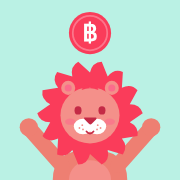
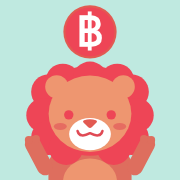
โลโก้: วาดใหม่ให้ใกล้เคียงรูปต้นฉบับ (แผงคอก้อนเมฆ หน้า หู มือชู เหรียญ ฿)
Claude-Session: https://claude.ai/code/session_01S3PVuPWeF5HadkVucRc6zr

diff --git a/index.html b/index.html
@@ -8,9 +8,9 @@
 <meta name="apple-mobile-web-app-title" content="Cashflow">
 <meta name="mobile-web-app-capable" content="yes">
 <meta name="apple-mobile-web-app-status-bar-style" content="default">
-<link rel="apple-touch-icon" href="apple-touch-icon.png?v=4">
-<link rel="icon" type="image/png" sizes="32x32" href="favicon.png?v=4">
-<link rel="manifest" href="manifest.json?v=4">
+<link rel="apple-touch-icon" href="apple-touch-icon.png?v=5">
+<link rel="icon" type="image/png" sizes="32x32" href="favicon.png?v=5">
+<link rel="manifest" href="manifest.json?v=5">
 <title>Cashflow</title>
 <link rel="preconnect" href="https://fonts.googleapis.com">
 <link href="https://fonts.googleapis.com/css2?family=Sarabun:wght@400;600;700;800&display=swap" rel="stylesheet">
@@ -166,7 +166,7 @@ label.f{display:block;font-size:12.5px;color:var(--mute);font-weight:600;margin:
 // anon key เปิดเผยได้โดยออกแบบ — ตัวป้องกันจริงคือ RLS (owner = auth.uid()) + ต้อง login
 const CF_SUPABASE_URL = 'https://xgpsdcnqravhouwaktgp.supabase.co';
 const CF_SUPABASE_ANON = 'sb_publishable_HGOrB_SgTUq22r67me1B5Q_KYhNoL7B';   // publishable key (Fillbook)
-const CF_VERSION = '2026-11-08q';
+const CF_VERSION = '2026-11-08r';
 // =============================================================================
 
 const GRP={in:{label:'เงินเข้า',sign:1,color:'#1d9a87',icon:'⬇'},debt:{label:'ชำระหนี้',sign:-1,color:'#b54708',icon:'🏦'},exp:{label:'ค่าใช้จ่าย',sign:-1,color:'#e0304d',icon:'⬆'}};
